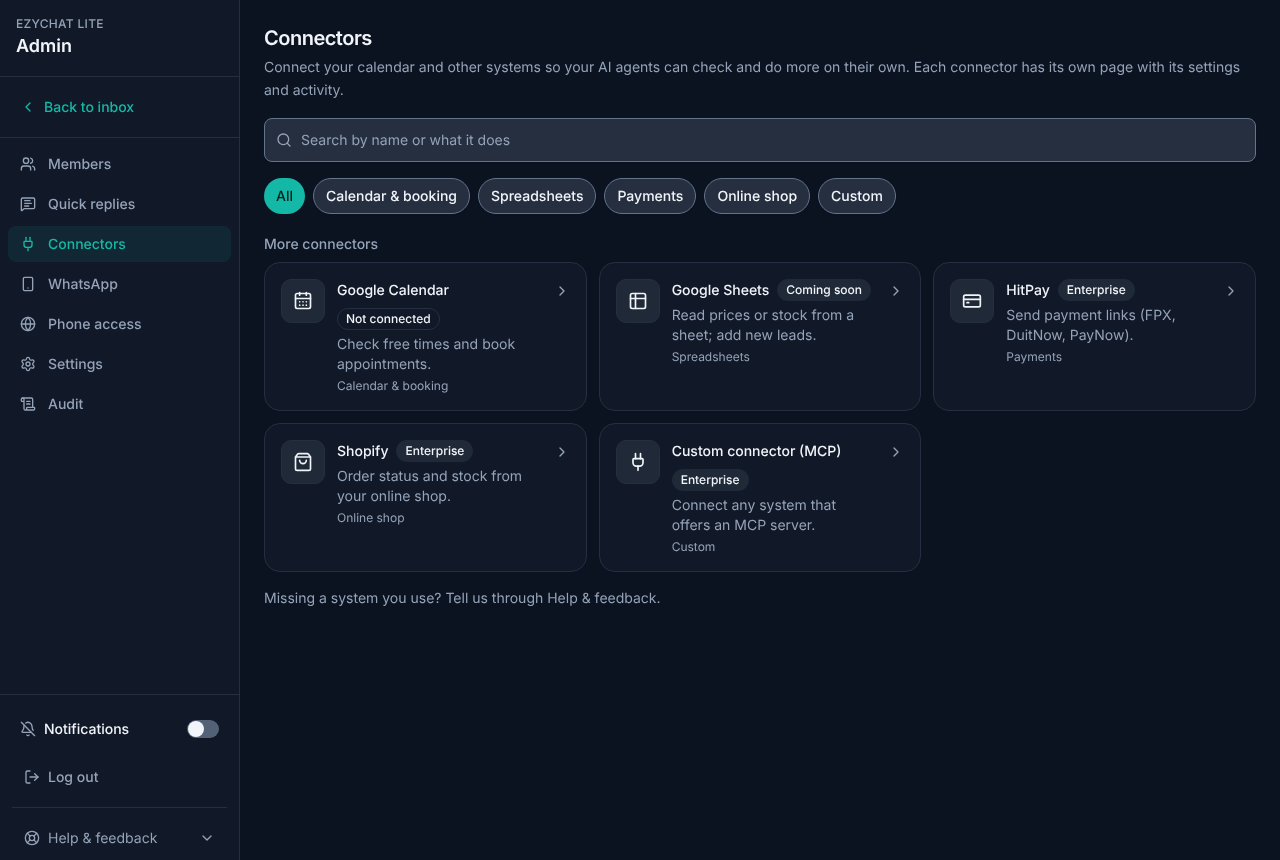
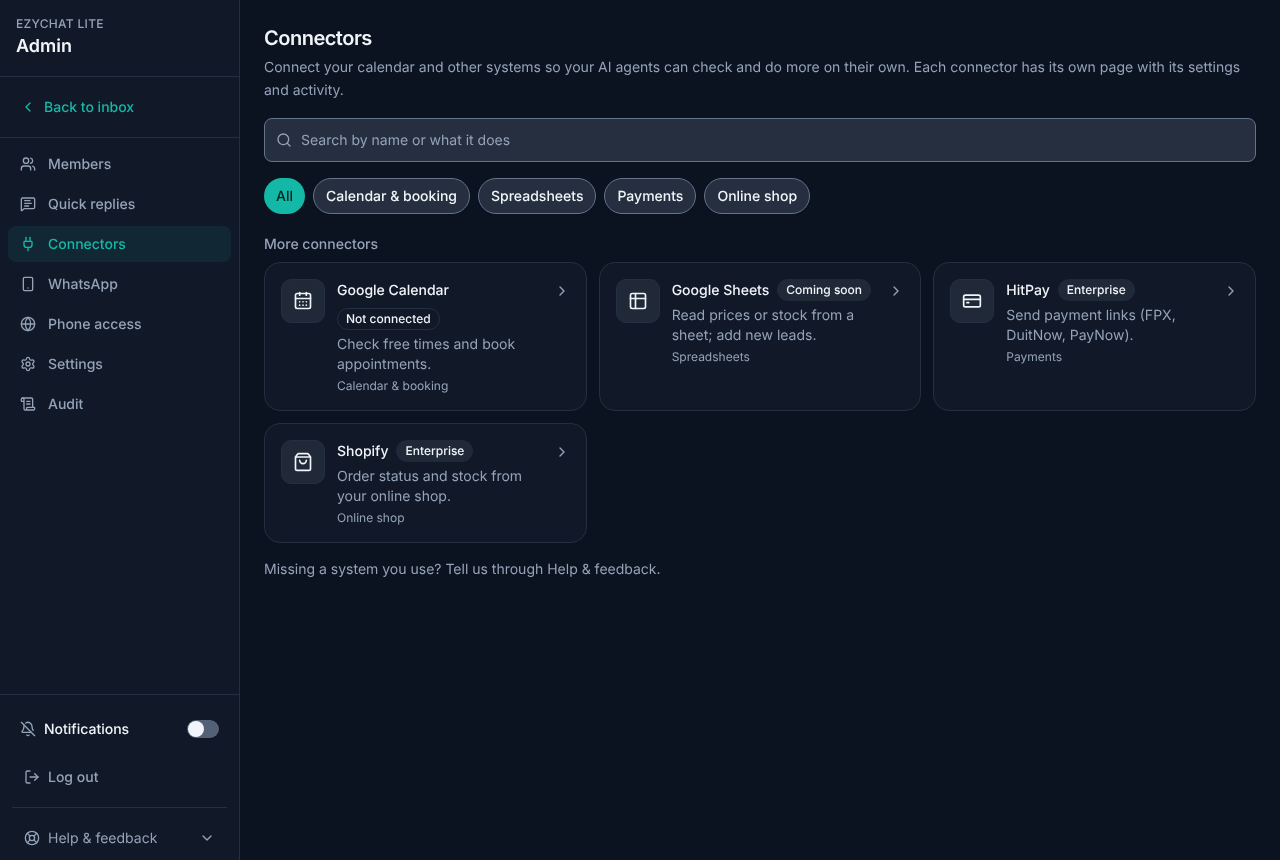
docs(google-calendar): no custom connector in Lite
Owner: Lite has no custom connector, only Enterprise. The Custom
connector (MCP) tile and the Custom category are not listed in the Lite
gallery (no upgrade tile) and its page answers "does not exist" there.

Claude-Session: https://claude.ai/code/session_01TUKp9bRszRegBoucuFeAcD

Changed region(s): [[0.2188, 0.6349, 0.5, 0.7256], [0.5, 0.514, 0.6562, 0.6651], [0.625, 0.1814, 0.7188, 0.2721]]

diff --git a/docs/features/google-calendar/mock/src/admin/ConnectorsGalleryPage.tsx b/docs/features/google-calendar/mock/src/admin/ConnectorsGalleryPage.tsx
@@ -8,8 +8,8 @@ import { Badge } from '@/components/ui/badge';
 import { Button } from '@/components/ui/button';
 import { cn } from '@/lib/utils';
 import {
-  CONNECTOR_CATEGORIES,
-  CONNECTORS,
+  listedCategories,
+  listedConnectors,
   connectorStatus,
   type CatalogConnector,
   type ConnectorCategory,
@@ -70,16 +70,18 @@ export function ConnectorsGalleryPage() {
   const [query, setQuery] = useState('');
   const [category, setCategory] = useState<ConnectorCategory | 'all'>('all');
   const q = query.trim().toLowerCase();
-  const rows = CONNECTORS.map((c) => ({
-    c,
-    status: connectorStatus(c, edition, google.data?.state),
-    name: tc(`mockConnectors.items.${c.id}.name`),
-    short: tc(`mockConnectors.items.${c.id}.short`),
-  })).filter(
-    (r) =>
-      (category === 'all' || r.c.category === category) &&
-      (!q || r.name.toLowerCase().includes(q) || r.short.toLowerCase().includes(q)),
-  );
+  const rows = listedConnectors(edition)
+    .map((c) => ({
+      c,
+      status: connectorStatus(c, edition, google.data?.state),
+      name: tc(`mockConnectors.items.${c.id}.name`),
+      short: tc(`mockConnectors.items.${c.id}.short`),
+    }))
+    .filter(
+      (r) =>
+        (category === 'all' || r.c.category === category) &&
+        (!q || r.name.toLowerCase().includes(q) || r.short.toLowerCase().includes(q)),
+    );
   const mine = rows.filter((r) => r.status === 'connected' || r.status === 'attention');
   const others = rows.filter((r) => !mine.includes(r));
 
@@ -128,7 +130,7 @@ export function ConnectorsGalleryPage() {
         role="group"
         aria-label={t('mockConnectors.categoryLabel')}
       >
-        {(['all', ...CONNECTOR_CATEGORIES] as const).map((id) => (
+        {(['all', ...listedCategories(edition)] as const).map((id) => (
           <Button
             key={id}
             type="button"

diff --git a/docs/features/google-calendar/mock/src/mock/connectorCatalog.ts b/docs/features/google-calendar/mock/src/mock/connectorCatalog.ts
@@ -18,6 +18,8 @@ export const CONNECTOR_CATEGORIES: readonly ConnectorCategory[] = [
 
 export interface CatalogConnector {
   id: string;
+  /** Only in Enterprise: not listed in Lite at all (no upgrade tile). */
+  enterpriseOnlyListing?: boolean;
   icon: LucideIcon;
   category: ConnectorCategory;
   /** `core`: Lite and Enterprise. `enterprise`: shown in Lite with an upgrade note. */
@@ -75,6 +77,8 @@ export const CONNECTORS: readonly CatalogConnector[] = [
   },
   {
     id: 'custom-mcp',
+    // Owner (2026-10-26): Lite has no custom connector; it is not listed there.
+    enterpriseOnlyListing: true,
     icon: Plug,
     category: 'custom',
     edition: 'enterprise',
@@ -99,4 +103,15 @@ export function connectorStatus(
     if (google === 'expired' || google === 'unavailable') return 'attention';
   }
   return 'notConnected';
+}
+
+/** The connectors an edition lists: Lite never shows the custom MCP connector. */
+export function listedConnectors(edition: 'lite' | 'enterprise'): readonly CatalogConnector[] {
+  return CONNECTORS.filter((c) => edition === 'enterprise' || !c.enterpriseOnlyListing);
+}
+
+/** Categories with at least one listed connector. */
+export function listedCategories(edition: 'lite' | 'enterprise'): ConnectorCategory[] {
+  const listed = listedConnectors(edition);
+  return CONNECTOR_CATEGORIES.filter((cat) => listed.some((c) => c.category === cat));
 }

diff --git a/docs/features/google-calendar/mock/src/admin/ConnectorDetailPage.tsx b/docs/features/google-calendar/mock/src/admin/ConnectorDetailPage.tsx
@@ -18,7 +18,7 @@ import {
 } from '@/components/ui/select';
 import { Tabs, TabsContent, TabsList, TabsTrigger } from '@/components/ui/tabs';
 import { formatRelative } from '@/lib/format';
-import { CONNECTORS, connectorStatus, type CatalogConnector } from '@/mock/connectorCatalog';
+import { connectorStatus, listedConnectors, type CatalogConnector } from '@/mock/connectorCatalog';
 import { useMockEdition } from '@/mock/edition';
 import { useGoogleCalendar } from '@/mock/googleCalendar';
 import { useShownAgents } from '@/mock/useAgents';
@@ -42,7 +42,7 @@ export function ConnectorDetailPage() {
   const [params, setParams] = useSearchParams();
   const edition = useMockEdition();
   const google = useGoogleCalendar();
-  const c = CONNECTORS.find((x) => x.id === id);
+  const c = listedConnectors(edition).find((x) => x.id === id);
   if (!c)
     return (
       <EmptyState

diff --git a/docs/features/google-calendar/design.md b/docs/features/google-calendar/design.md
@@ -35,6 +35,9 @@ Calendar card in Settings → Integrations and the Bookings card on the agent pa
   (per AI agent: calendar, Check free times, Book appointments, booking rules; an agent picker when there are
   several) and **Activity** (what the AI checked, booked or handed over; never chat text). Coming-soon and
   Enterprise-only connectors show the overview with a Coming soon note or the Upgrade to Enterprise button.
+- **Lite has no custom connector** (owner, 2026-10-26: "Ezychat lite no custom connector, only enterprise"): the
+  Custom connector (MCP) tile and the Custom category are not listed in Lite at all (no upgrade tile); its page
+  answers "This connector does not exist" there. Enterprise lists it.
 - **Agent page → Connectors**: a short summary row per connected connector ("Checks free times; your team
   books") that opens the connector's Settings tab, and Browse connectors.
 - **Settings → Integrations**: a pointer to Admin → Connectors.
